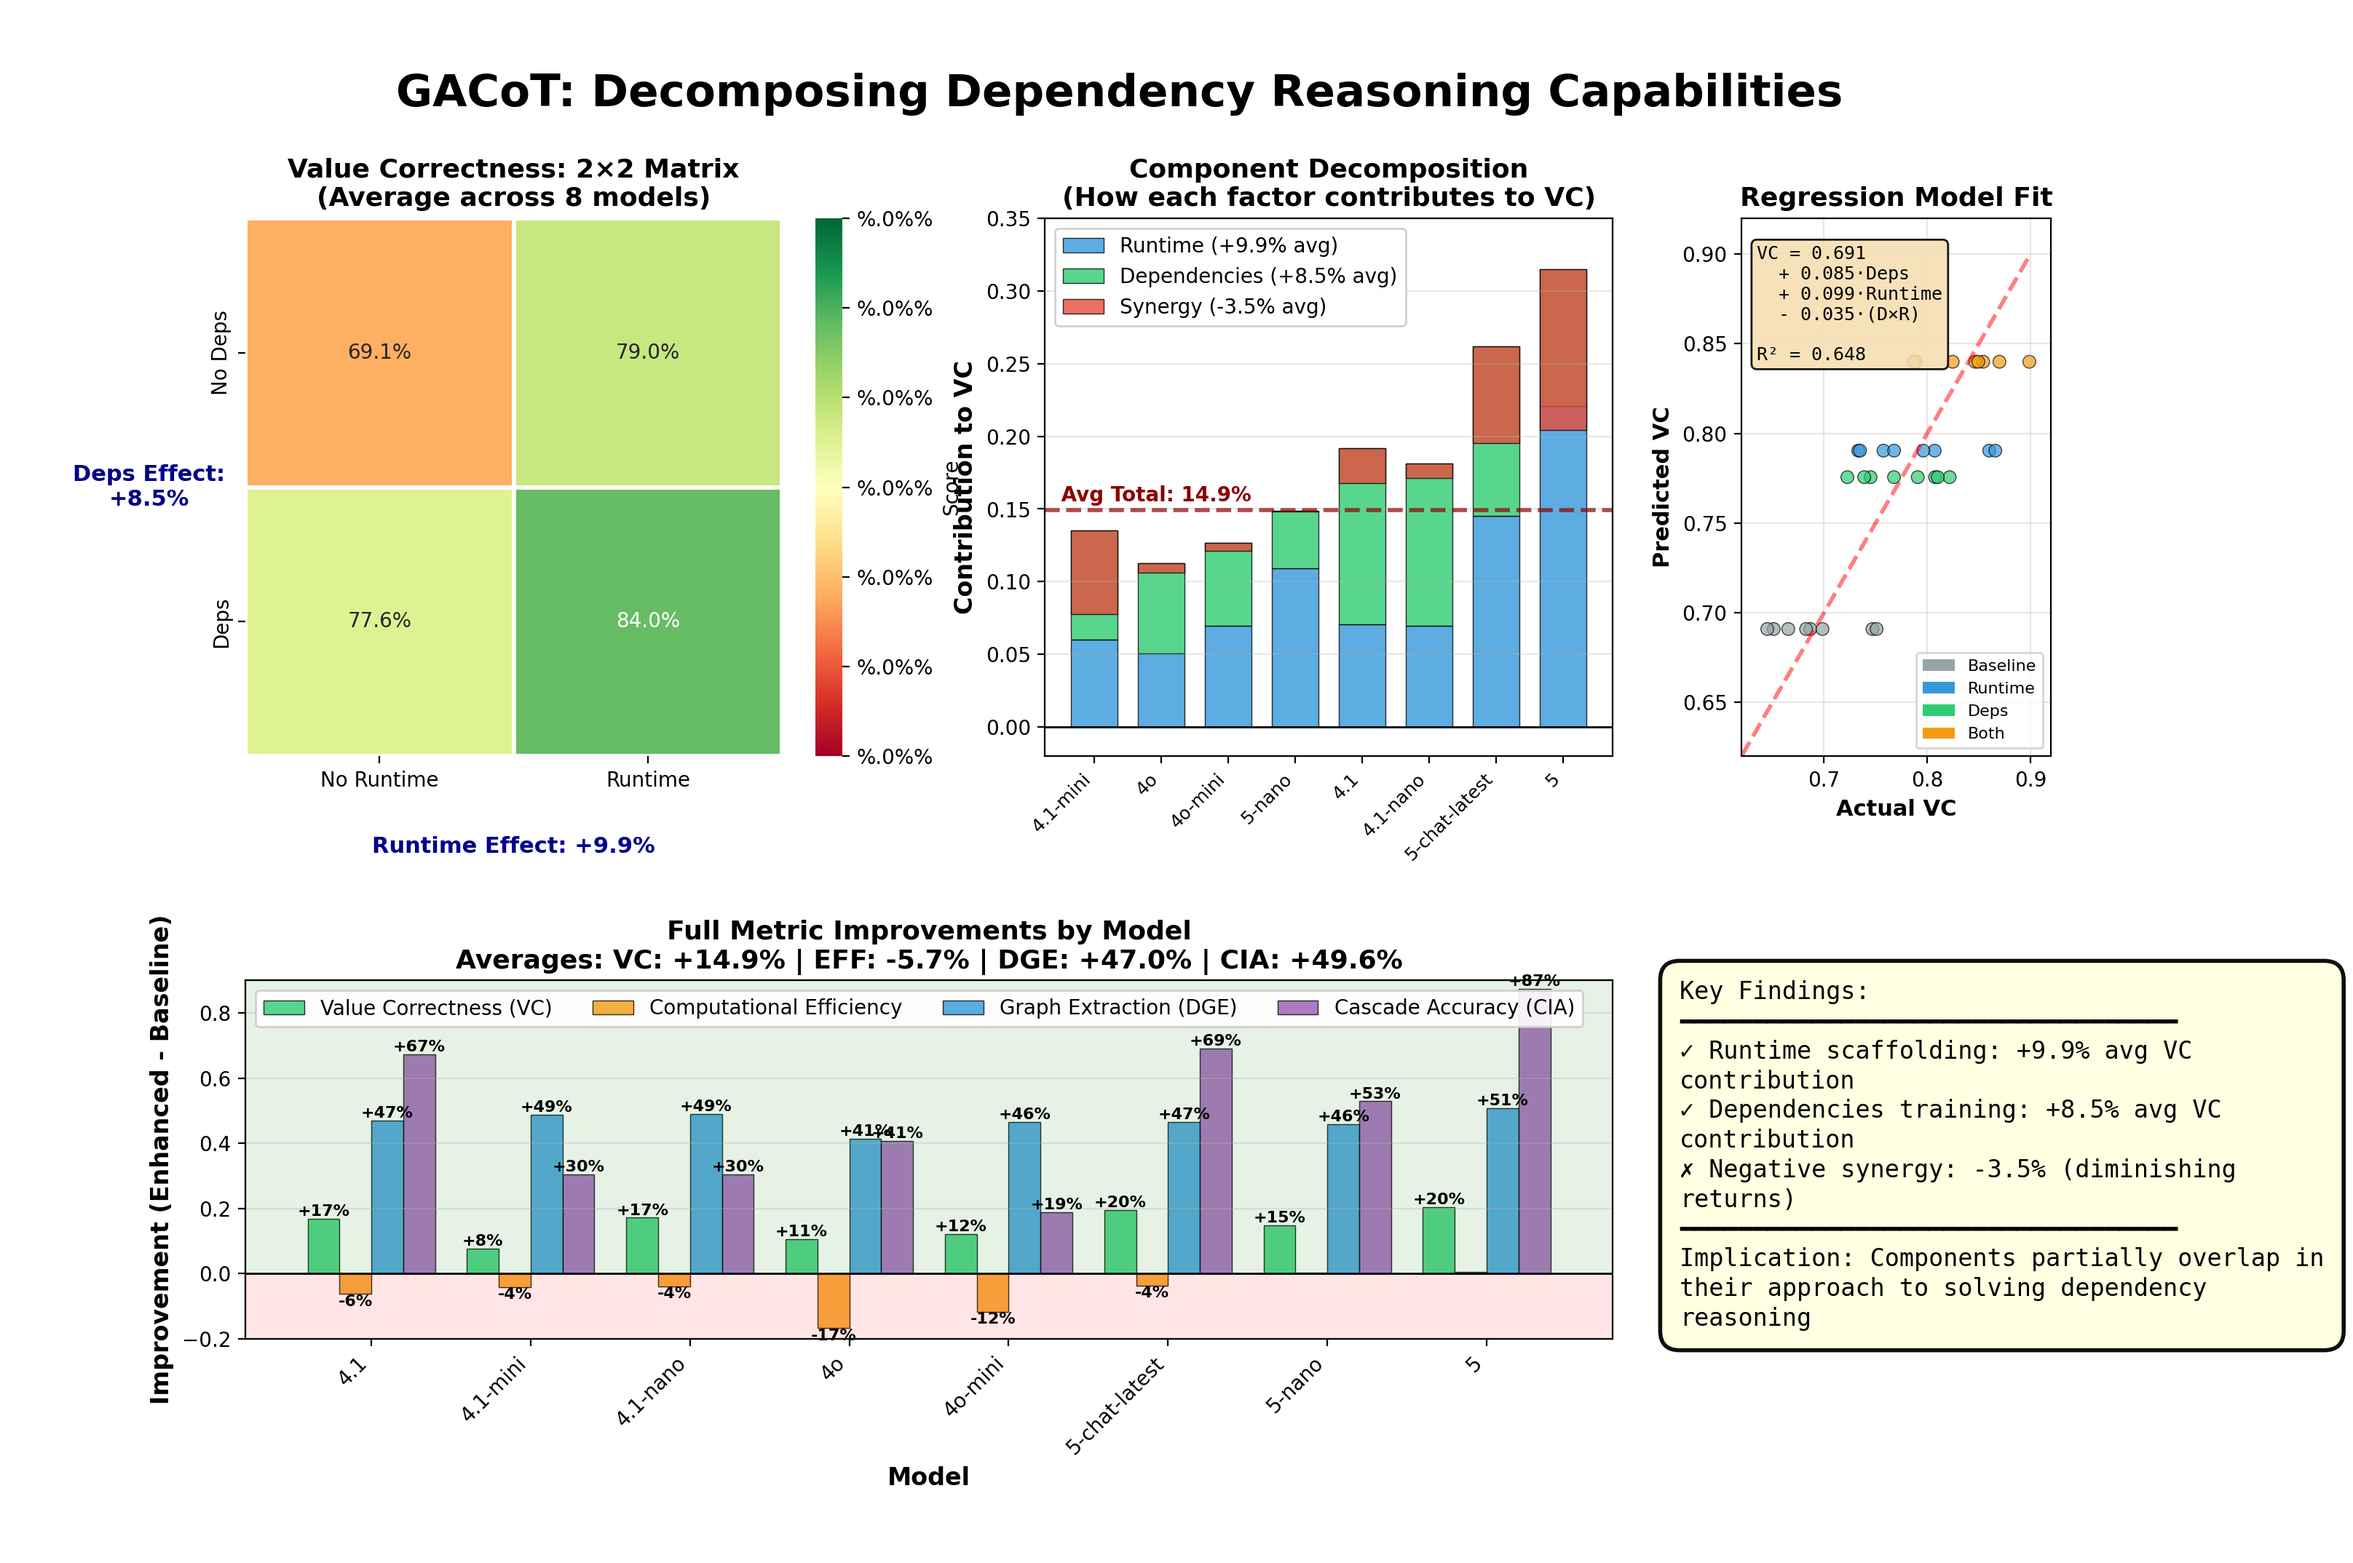
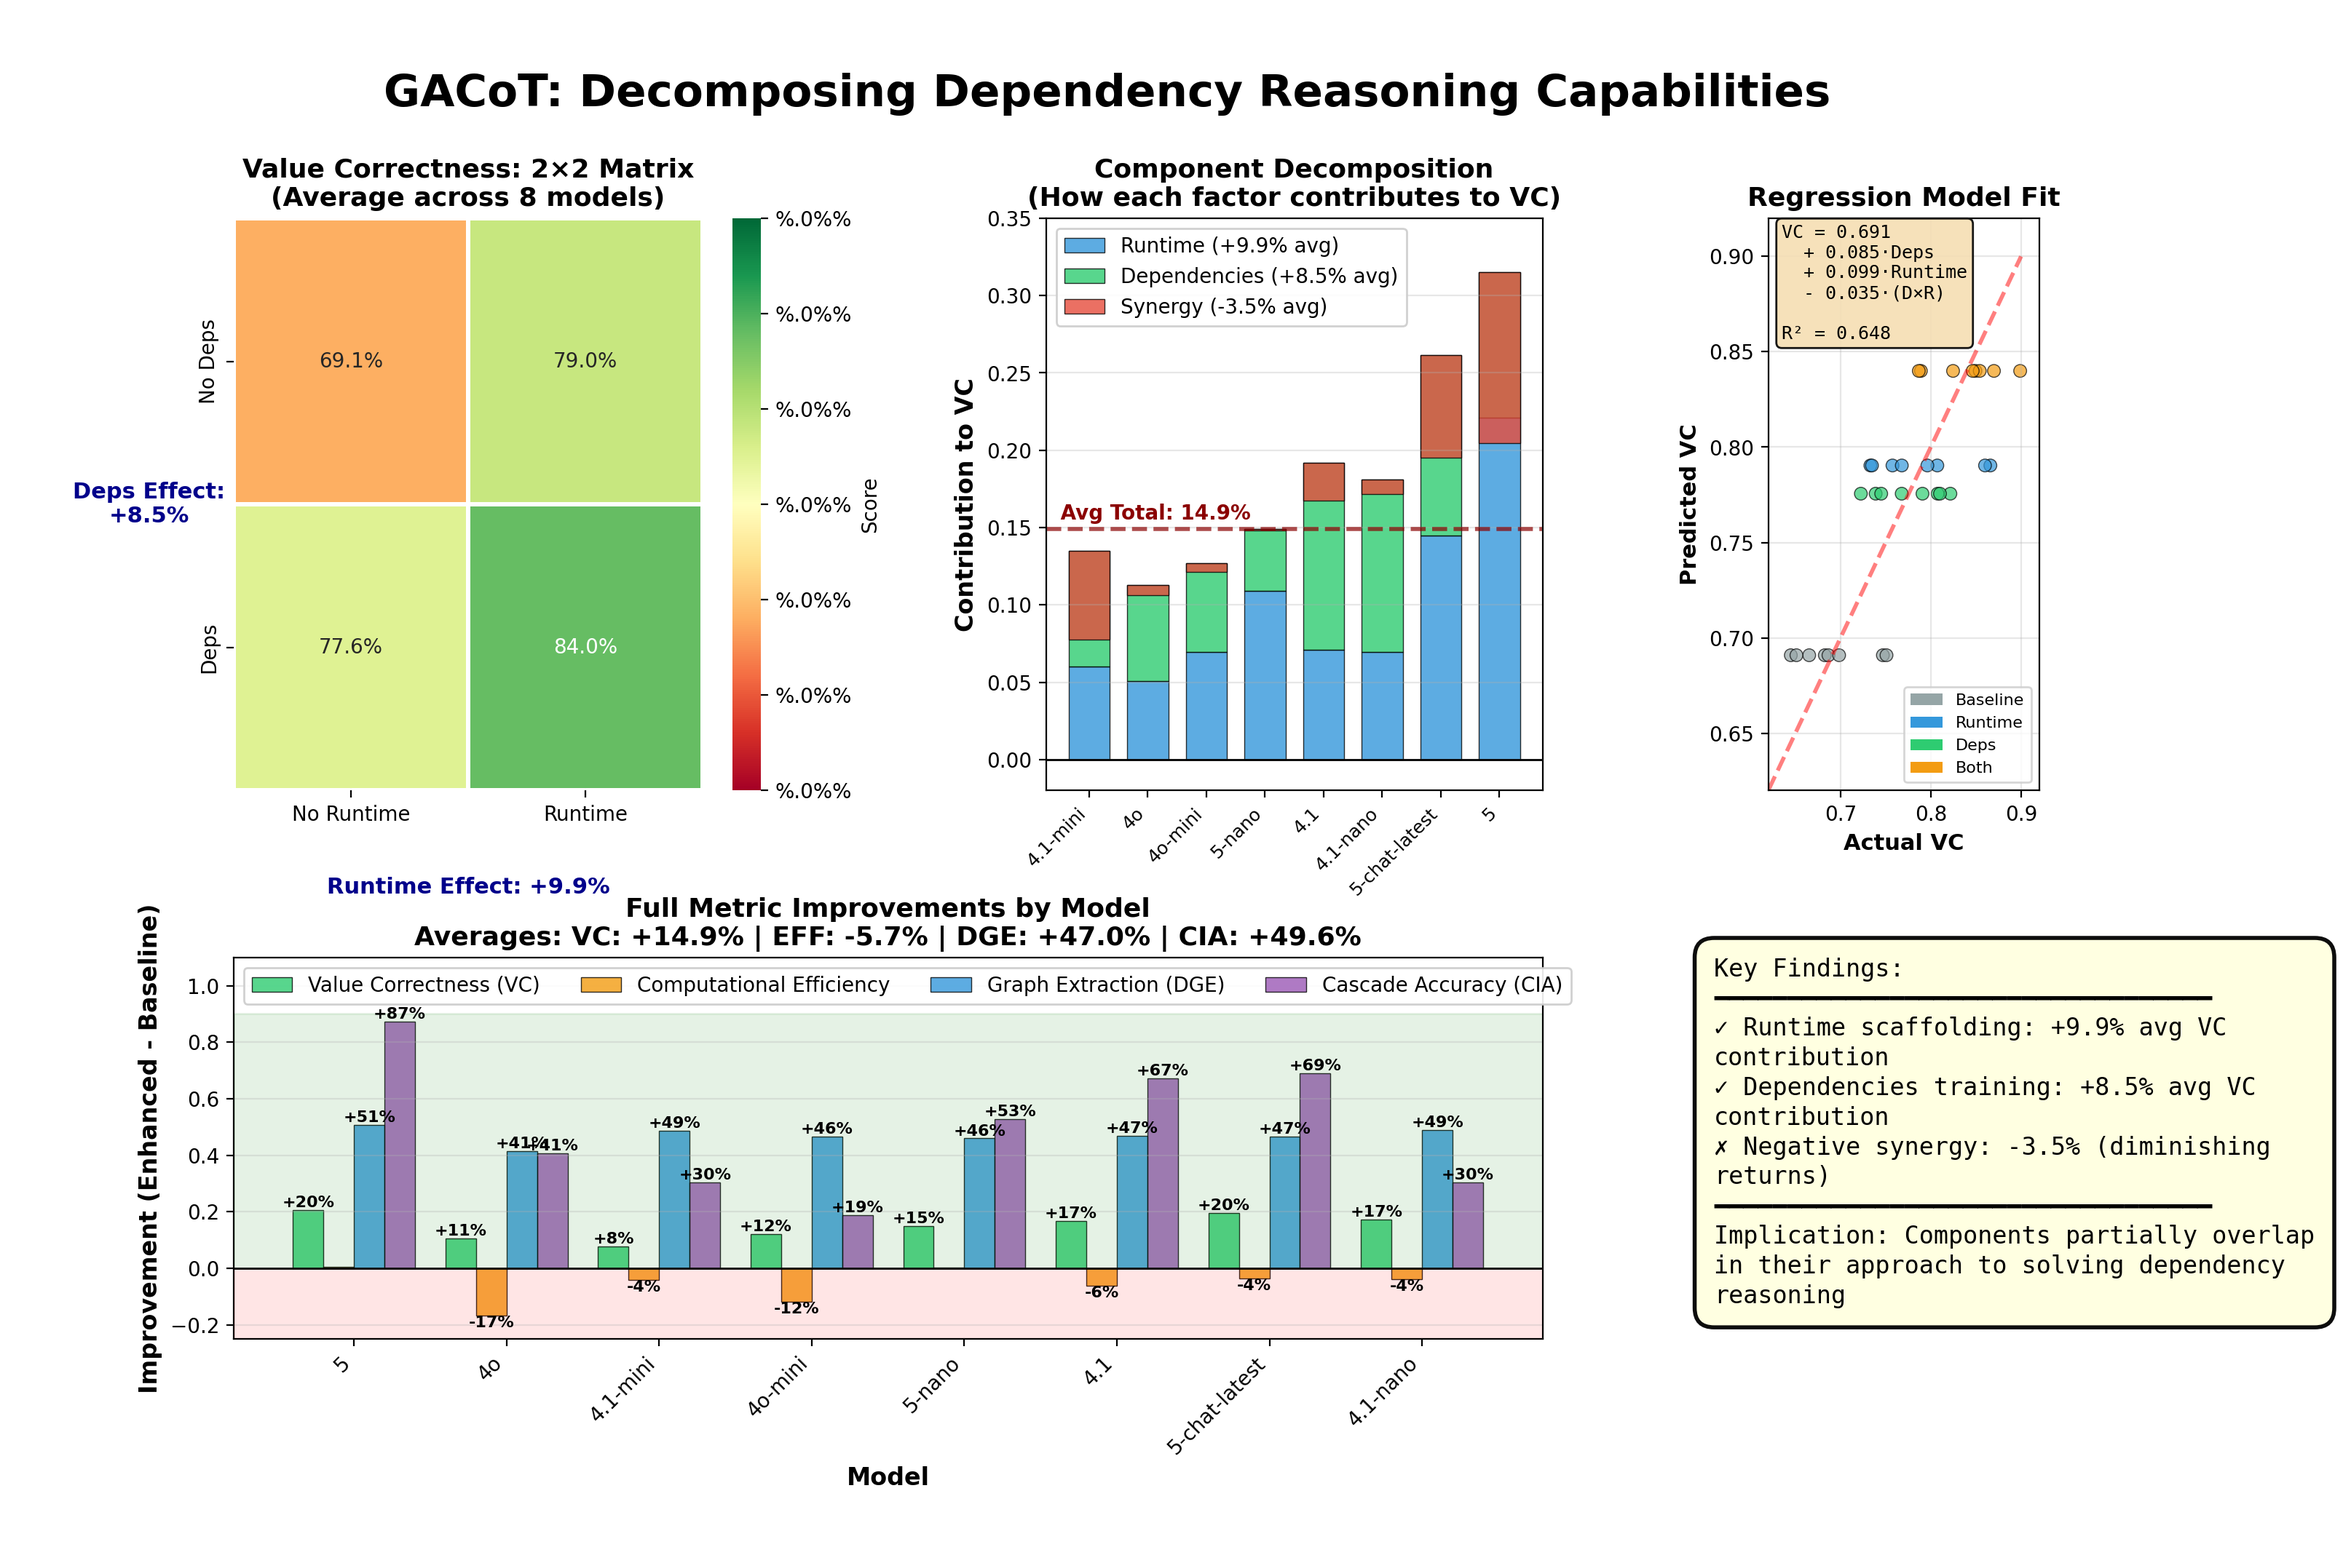
Fixed formatting

diff --git a/gacot/viz/showcase.py b/gacot/viz/showcase.py
@@ -41,8 +41,8 @@ def create_one_page_showcase(
         2, 3,
         height_ratios=[1.2, 0.8],
         width_ratios=[1.3, 1.1, 0.6],
-        hspace=0.5,
-        wspace=0.25
+        hspace=0.35,
+        wspace=0.5
     )
     
     # Normalize all results
@@ -236,7 +236,7 @@ def _add_regression_analysis(fig, gridspec, all_results: Dict):
         r2=r2
     )
     
-    ax.text(0.05, 0.95, eq_text, transform=ax.transAxes,
+    ax.text(0.05, 0.99, eq_text, transform=ax.transAxes,
            fontsize=9, verticalalignment='top', fontfamily='monospace',
            bbox=dict(boxstyle='round', facecolor='wheat', alpha=0.9))
     
@@ -303,7 +303,7 @@ def _add_model_comparison(fig, gridspec, all_results: Dict):
     ax.legend(loc='upper left', ncol=4, framealpha=0.9, fontsize=10)
     ax.axhline(y=0, color='black', linestyle='-', linewidth=1)
     ax.grid(True, alpha=0.3, axis='y')
-    ax.set_ylim(-0.2, 0.9)
+    ax.set_ylim(-0.25, 1.1)
     
     # Add colored background zones
     ax.axhspan(-0.25, 0, alpha=0.1, color='red')

diff --git a/README.md b/README.md
@@ -91,8 +91,9 @@ cp .env.example .env  # Add OpenAI key
 python evaluate.py --model gpt-4o-mini gpt-4  # Uses cache
 python evaluate.py --force-api --model gpt-4o-mini  # Fresh run
 
-# View results
-python evaluate.py --aggregate gpt-4o-mini gpt-4
+# View results for models
+python evaluate.py --aggregate gpt-5 gpt-4o gpt-4.1-mini gpt-4o-mini gpt-5-nano gpt-4.1 gpt-5-chat-latest gpt-4.1-nano # All models
+python evaluate.py --aggregate gpt-4o-mini gpt-4 # Subset of models
 # See results/gacot_one_page_showcase.html
 ```
 
